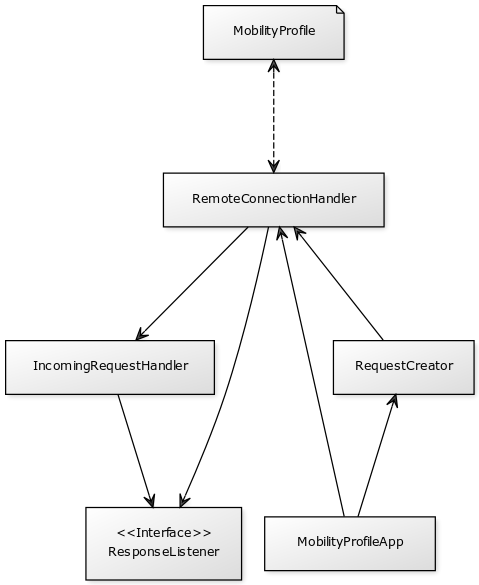
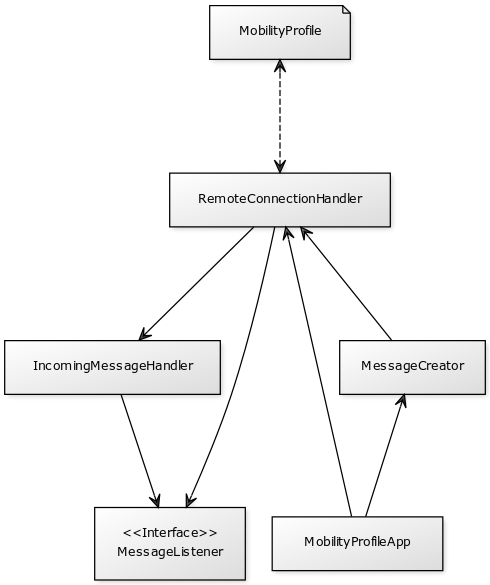
Update class diagram

diff --git a/app/src/main/java/fi/ohtu/connectiontest/remoteconnection/RemoteConnectionHandler.java b/app/src/main/java/fi/ohtu/connectiontest/remoteconnection/RemoteConnectionHandler.java
@@ -17,12 +17,12 @@ import android.widget.Toast;
  * with the mobility profile. When the activity is stopped, stopConnection() should be called in
  * order to save resources.
  *
- * Messages received from the mobility profile are forwarded to IncomingRequestHandler.
+ * Messages received from the mobility profile are forwarded to IncomingMessageHandler.
  * SendRequest() is used by MessageCreator to send requests to the mobility profile.
  */
 public class RemoteConnectionHandler extends Handler implements ServiceConnection {
     private Context context;
-    private IncomingRequestHandler incomingRequestHandler;
+    private IncomingMessageHandler incomingMessageHandler;
     private MessageListener messageListener;
 
     private Messenger requestCreatorMessenger;
@@ -33,11 +33,11 @@ public class RemoteConnectionHandler extends Handler implements ServiceConnectio
      * Creates the RemoteConnectionHandler.
      *
      * @param context Context used for binding the service
-     * @param incomingRequestHandler Handler for handling incoming messages
+     * @param incomingMessageHandler Handler for handling incoming messages
      */
-    public RemoteConnectionHandler(Context context, IncomingRequestHandler incomingRequestHandler) {
+    public RemoteConnectionHandler(Context context, IncomingMessageHandler incomingMessageHandler) {
         this.context = context;
-        this.incomingRequestHandler = incomingRequestHandler;
+        this.incomingMessageHandler = incomingMessageHandler;
 
         this.incomingRequestMessenger = new Messenger(this);
     }
@@ -127,6 +127,6 @@ public class RemoteConnectionHandler extends Handler implements ServiceConnectio
 
     @Override
     public void handleMessage(Message msg) {
-        incomingRequestHandler.handleMessage(msg);
+        incomingMessageHandler.handleMessage(msg);
     }
 }

diff --git a/app/src/main/java/fi/ohtu/connectiontest/remoteconnection/MobilityProfileApp.java b/app/src/main/java/fi/ohtu/connectiontest/remoteconnection/MobilityProfileApp.java
@@ -8,15 +8,15 @@ import android.support.v7.app.AppCompatActivity;
  */
 public abstract class MobilityProfileApp extends AppCompatActivity {
     private RemoteConnectionHandler remoteConnectionHandler;
-    private IncomingRequestHandler incomingRequestHandler;
+    private IncomingMessageHandler incomingMessageHandler;
     protected MessageCreator mobilityProfile;
 
     @Override
     protected void onCreate(Bundle savedInstanceState) {
         super.onCreate(savedInstanceState);
 
-        this.incomingRequestHandler = new IncomingRequestHandler(this);
-        this.remoteConnectionHandler = new RemoteConnectionHandler(this, incomingRequestHandler);
+        this.incomingMessageHandler = new IncomingMessageHandler(this);
+        this.remoteConnectionHandler = new RemoteConnectionHandler(this, incomingMessageHandler);
         this.mobilityProfile = new MessageCreator(remoteConnectionHandler);
     }
 
@@ -41,7 +41,7 @@ public abstract class MobilityProfileApp extends AppCompatActivity {
      * @param messageListener Listener for incoming requests
      */
     public void setMessageListener(MessageListener messageListener) {
-        incomingRequestHandler.setMessageListener(messageListener);
+        incomingMessageHandler.setMessageListener(messageListener);
         remoteConnectionHandler.setMessageListener(messageListener);
     }
 }

diff --git a/app/src/main/java/fi/ohtu/connectiontest/remoteconnection/IncomingMessageHandler.java b/app/src/main/java/fi/ohtu/connectiontest/remoteconnection/IncomingMessageHandler.java
@@ -10,16 +10,16 @@ import static fi.ohtu.connectiontest.remoteconnection.ResponseCode.*;
  * This class is used for processing incoming messages from the mobility profile. Processed
  * messages are forwarded to the registered MessageListener.
  */
-public class IncomingRequestHandler {
+public class IncomingMessageHandler {
     private Context context;
     private MessageListener messageListener;
 
     /**
-     * Creates the IncomingRequestHandler.
+     * Creates the IncomingMessageHandler.
      *
      * @param context Context used for toasts
      */
-    public IncomingRequestHandler(Context context) {
+    public IncomingMessageHandler(Context context) {
         this.context = context;
     }
 
